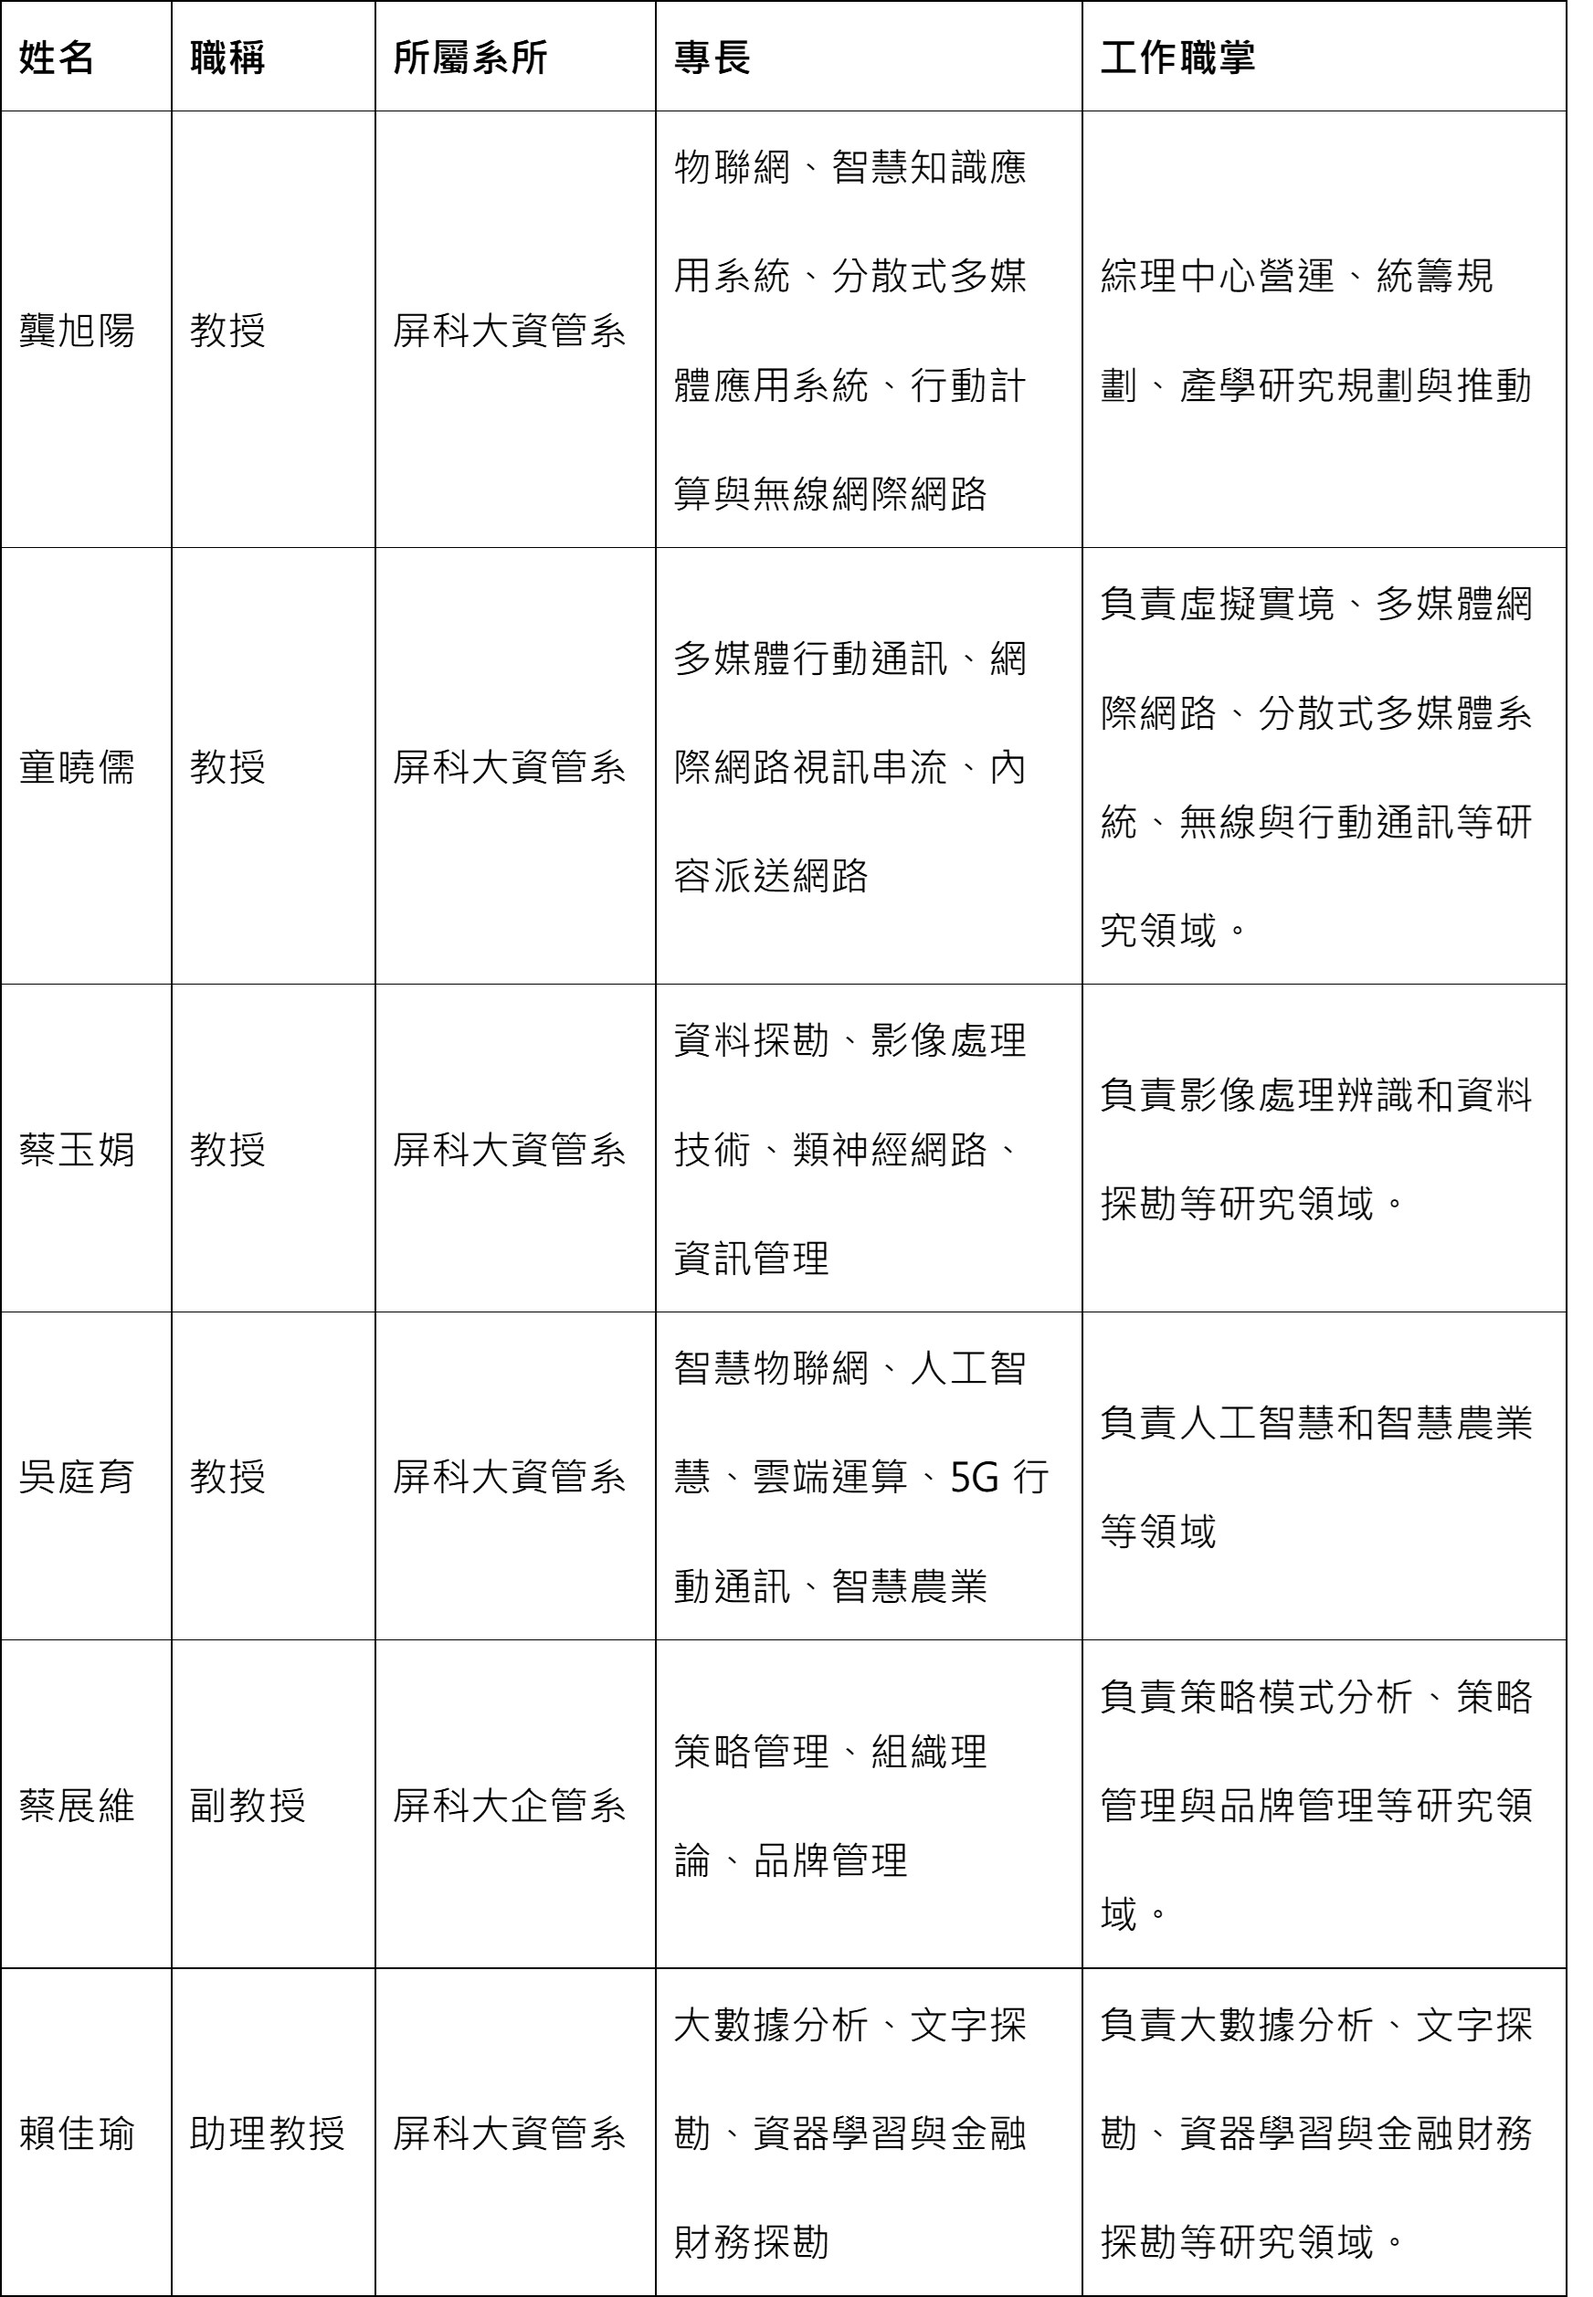
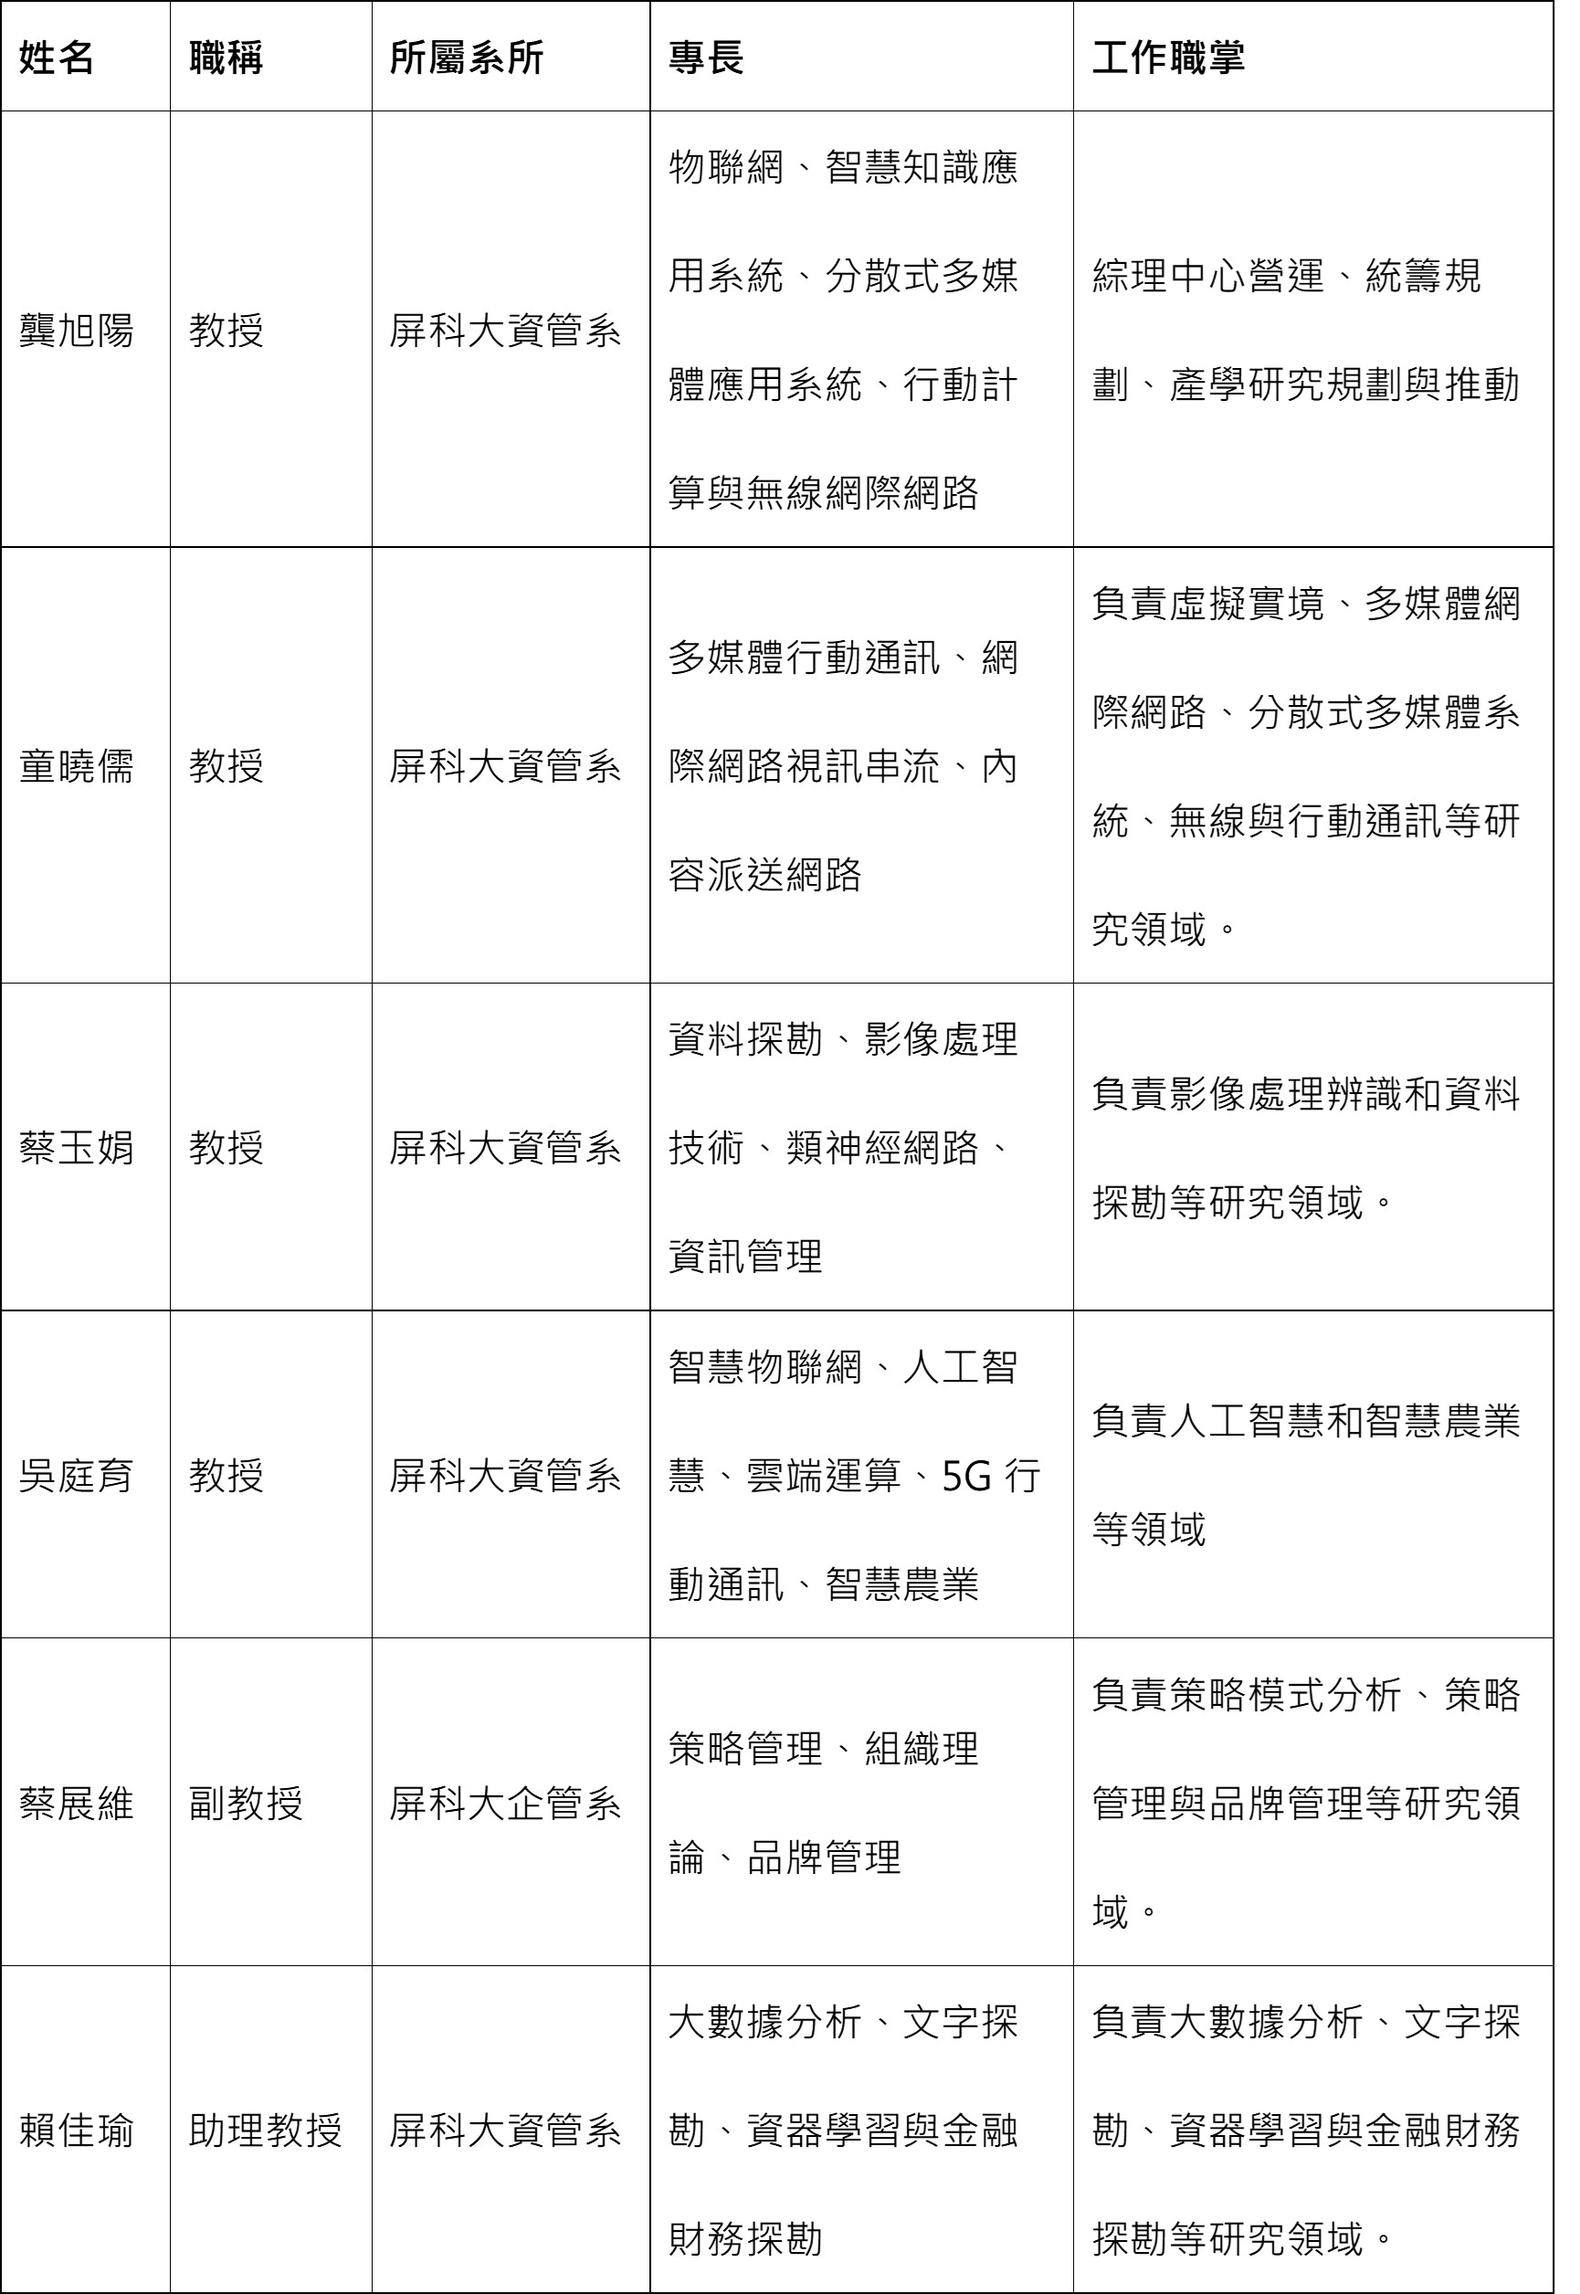
member_update

diff --git a/member_center.html b/member_center.html
@@ -289,7 +289,7 @@
 
                             <h2 style="padding-bottom: 5px;">成員一覽表</h2>
                             <p>本中心相關研究師資與團隊成員，簡介如下：</p>
-                            <center><img style="width: 99%;" src="img/團隊成員一覽表new.JPG"></center>
+                            <center><img src="img/團隊成員一覽表new.JPG"><img style="margin-left: -13px;" src="img/團隊成員一覽表new2.JPG"></center>
                         </div>
                         <div dir="ltr" class="resize-sensor" style="position: absolute; inset: -10px 0px 0px -10px; overflow: hidden; z-index: -1; visibility: hidden;">
                             <div class="resize-sensor-expand" style="position: absolute; left: -10px; top: -10px; right: 0; bottom: 0; overflow: hidden; z-index: -1; visibility: hidden;">
